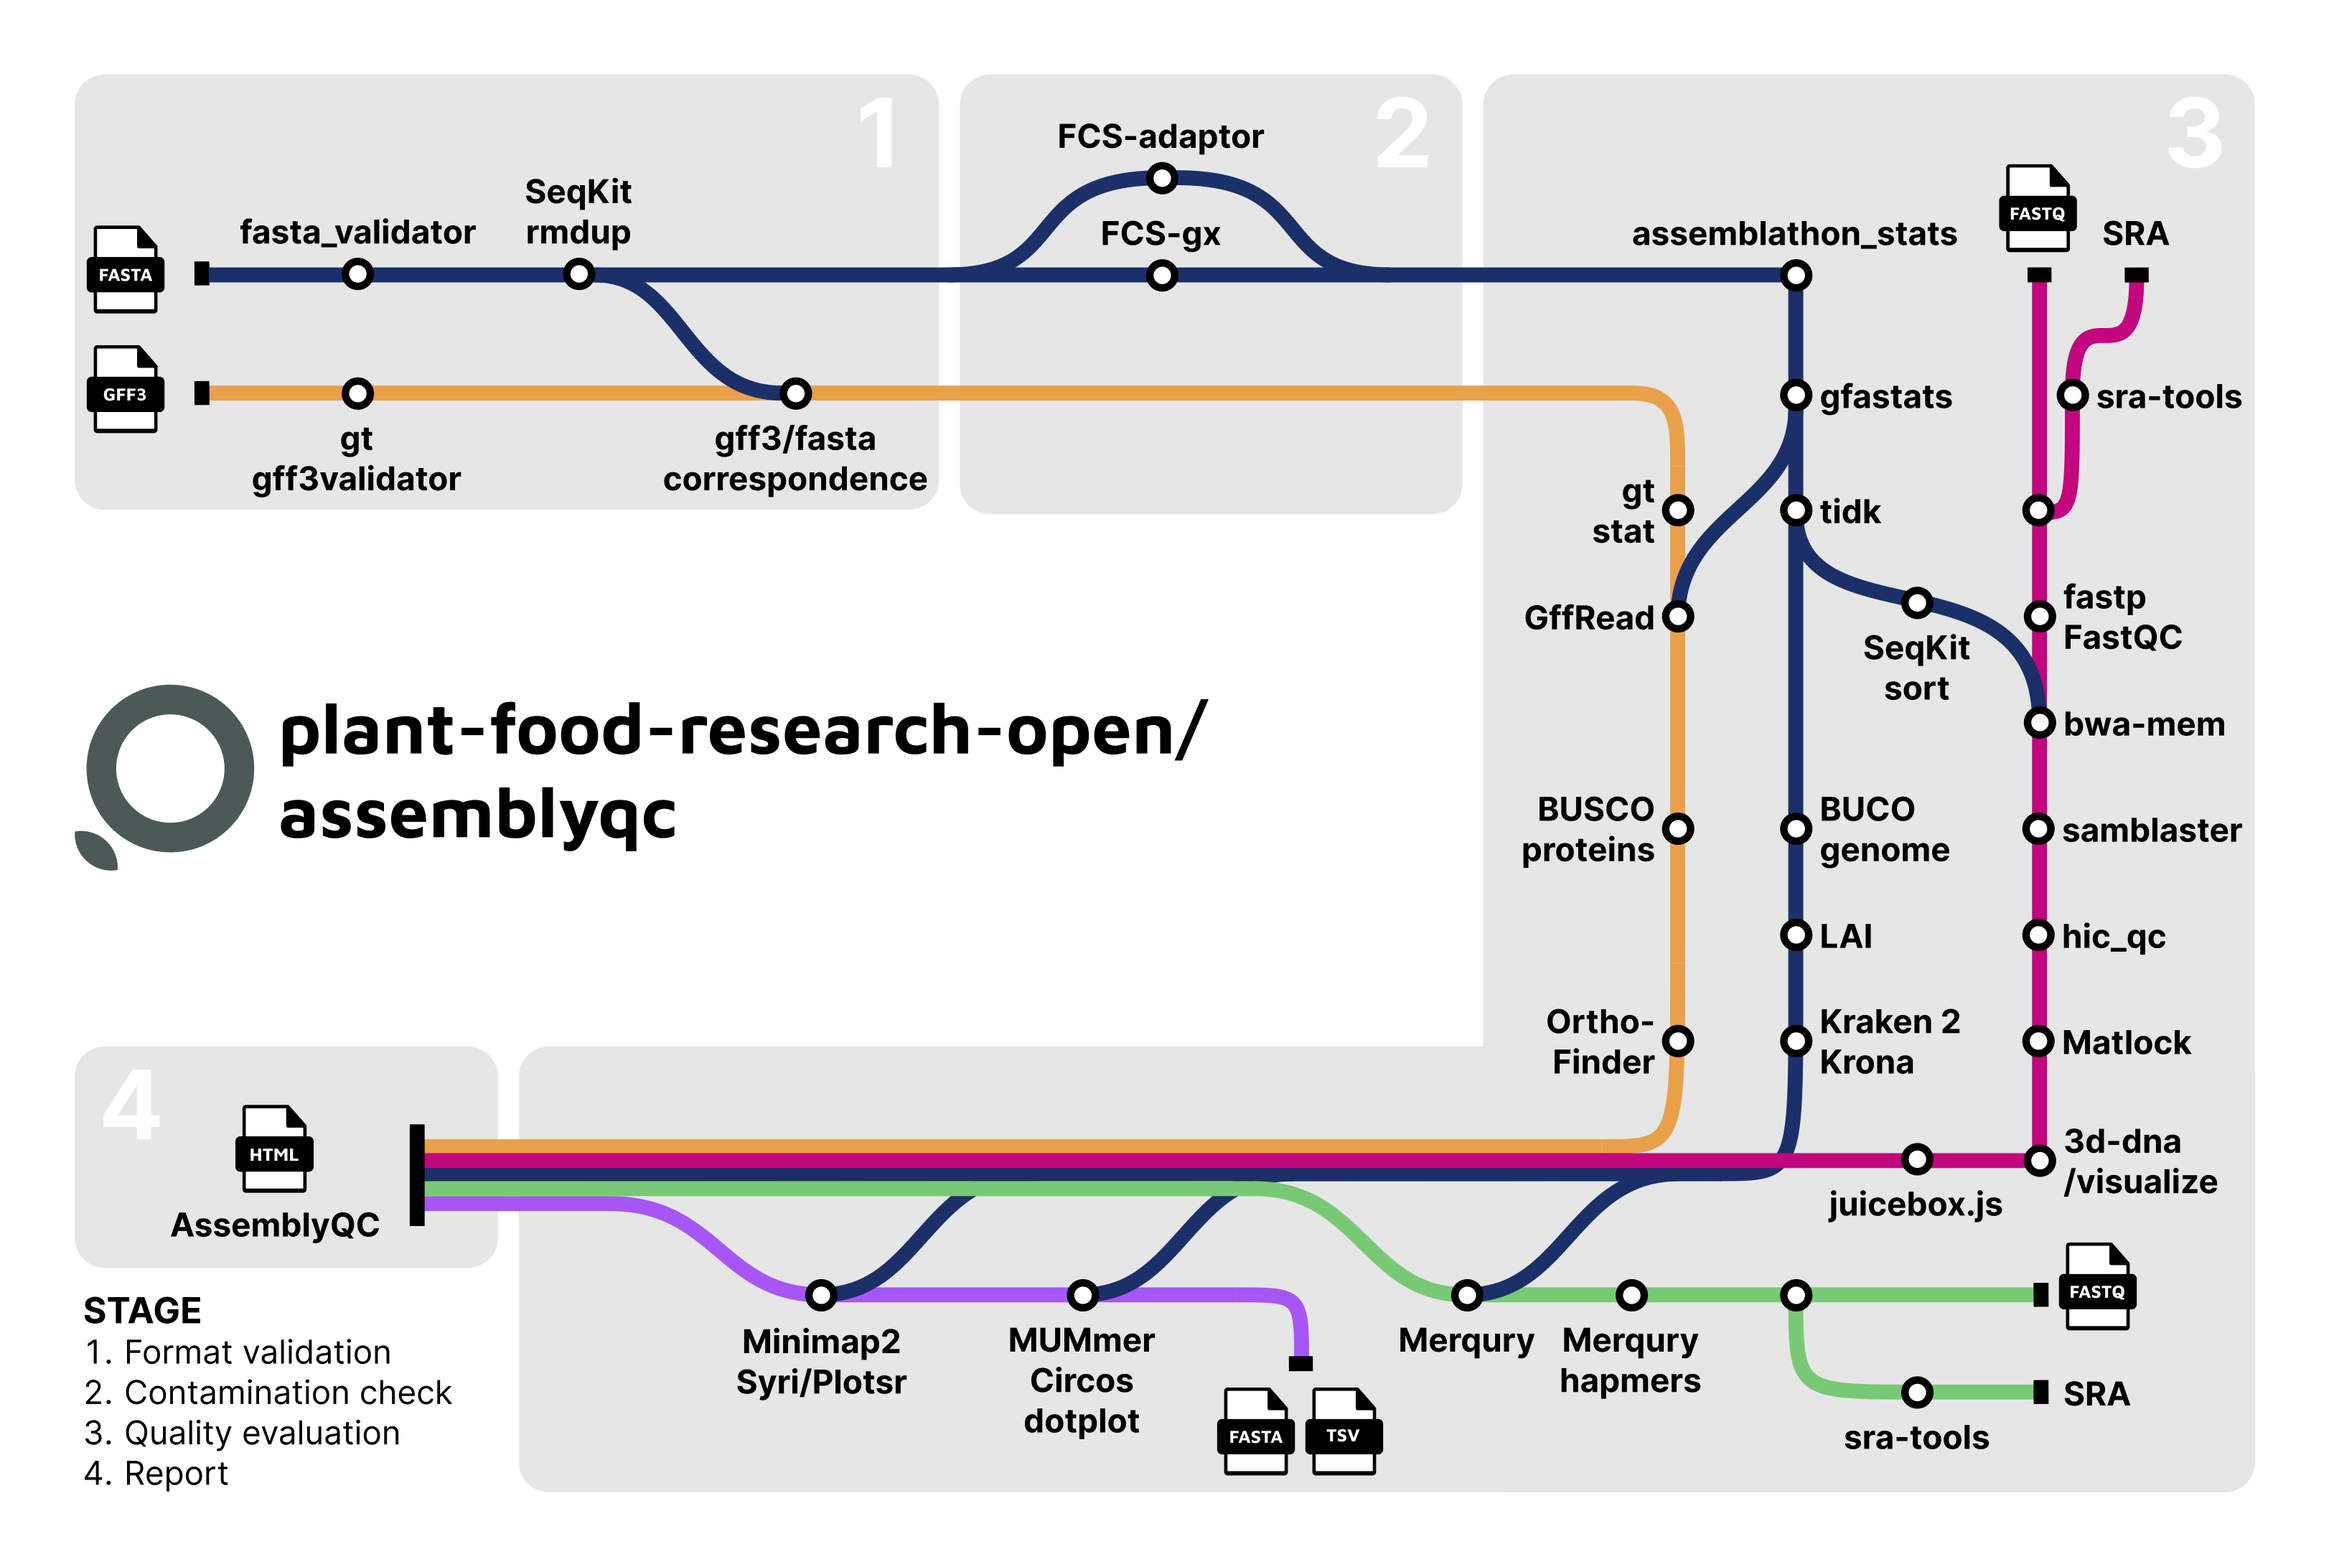
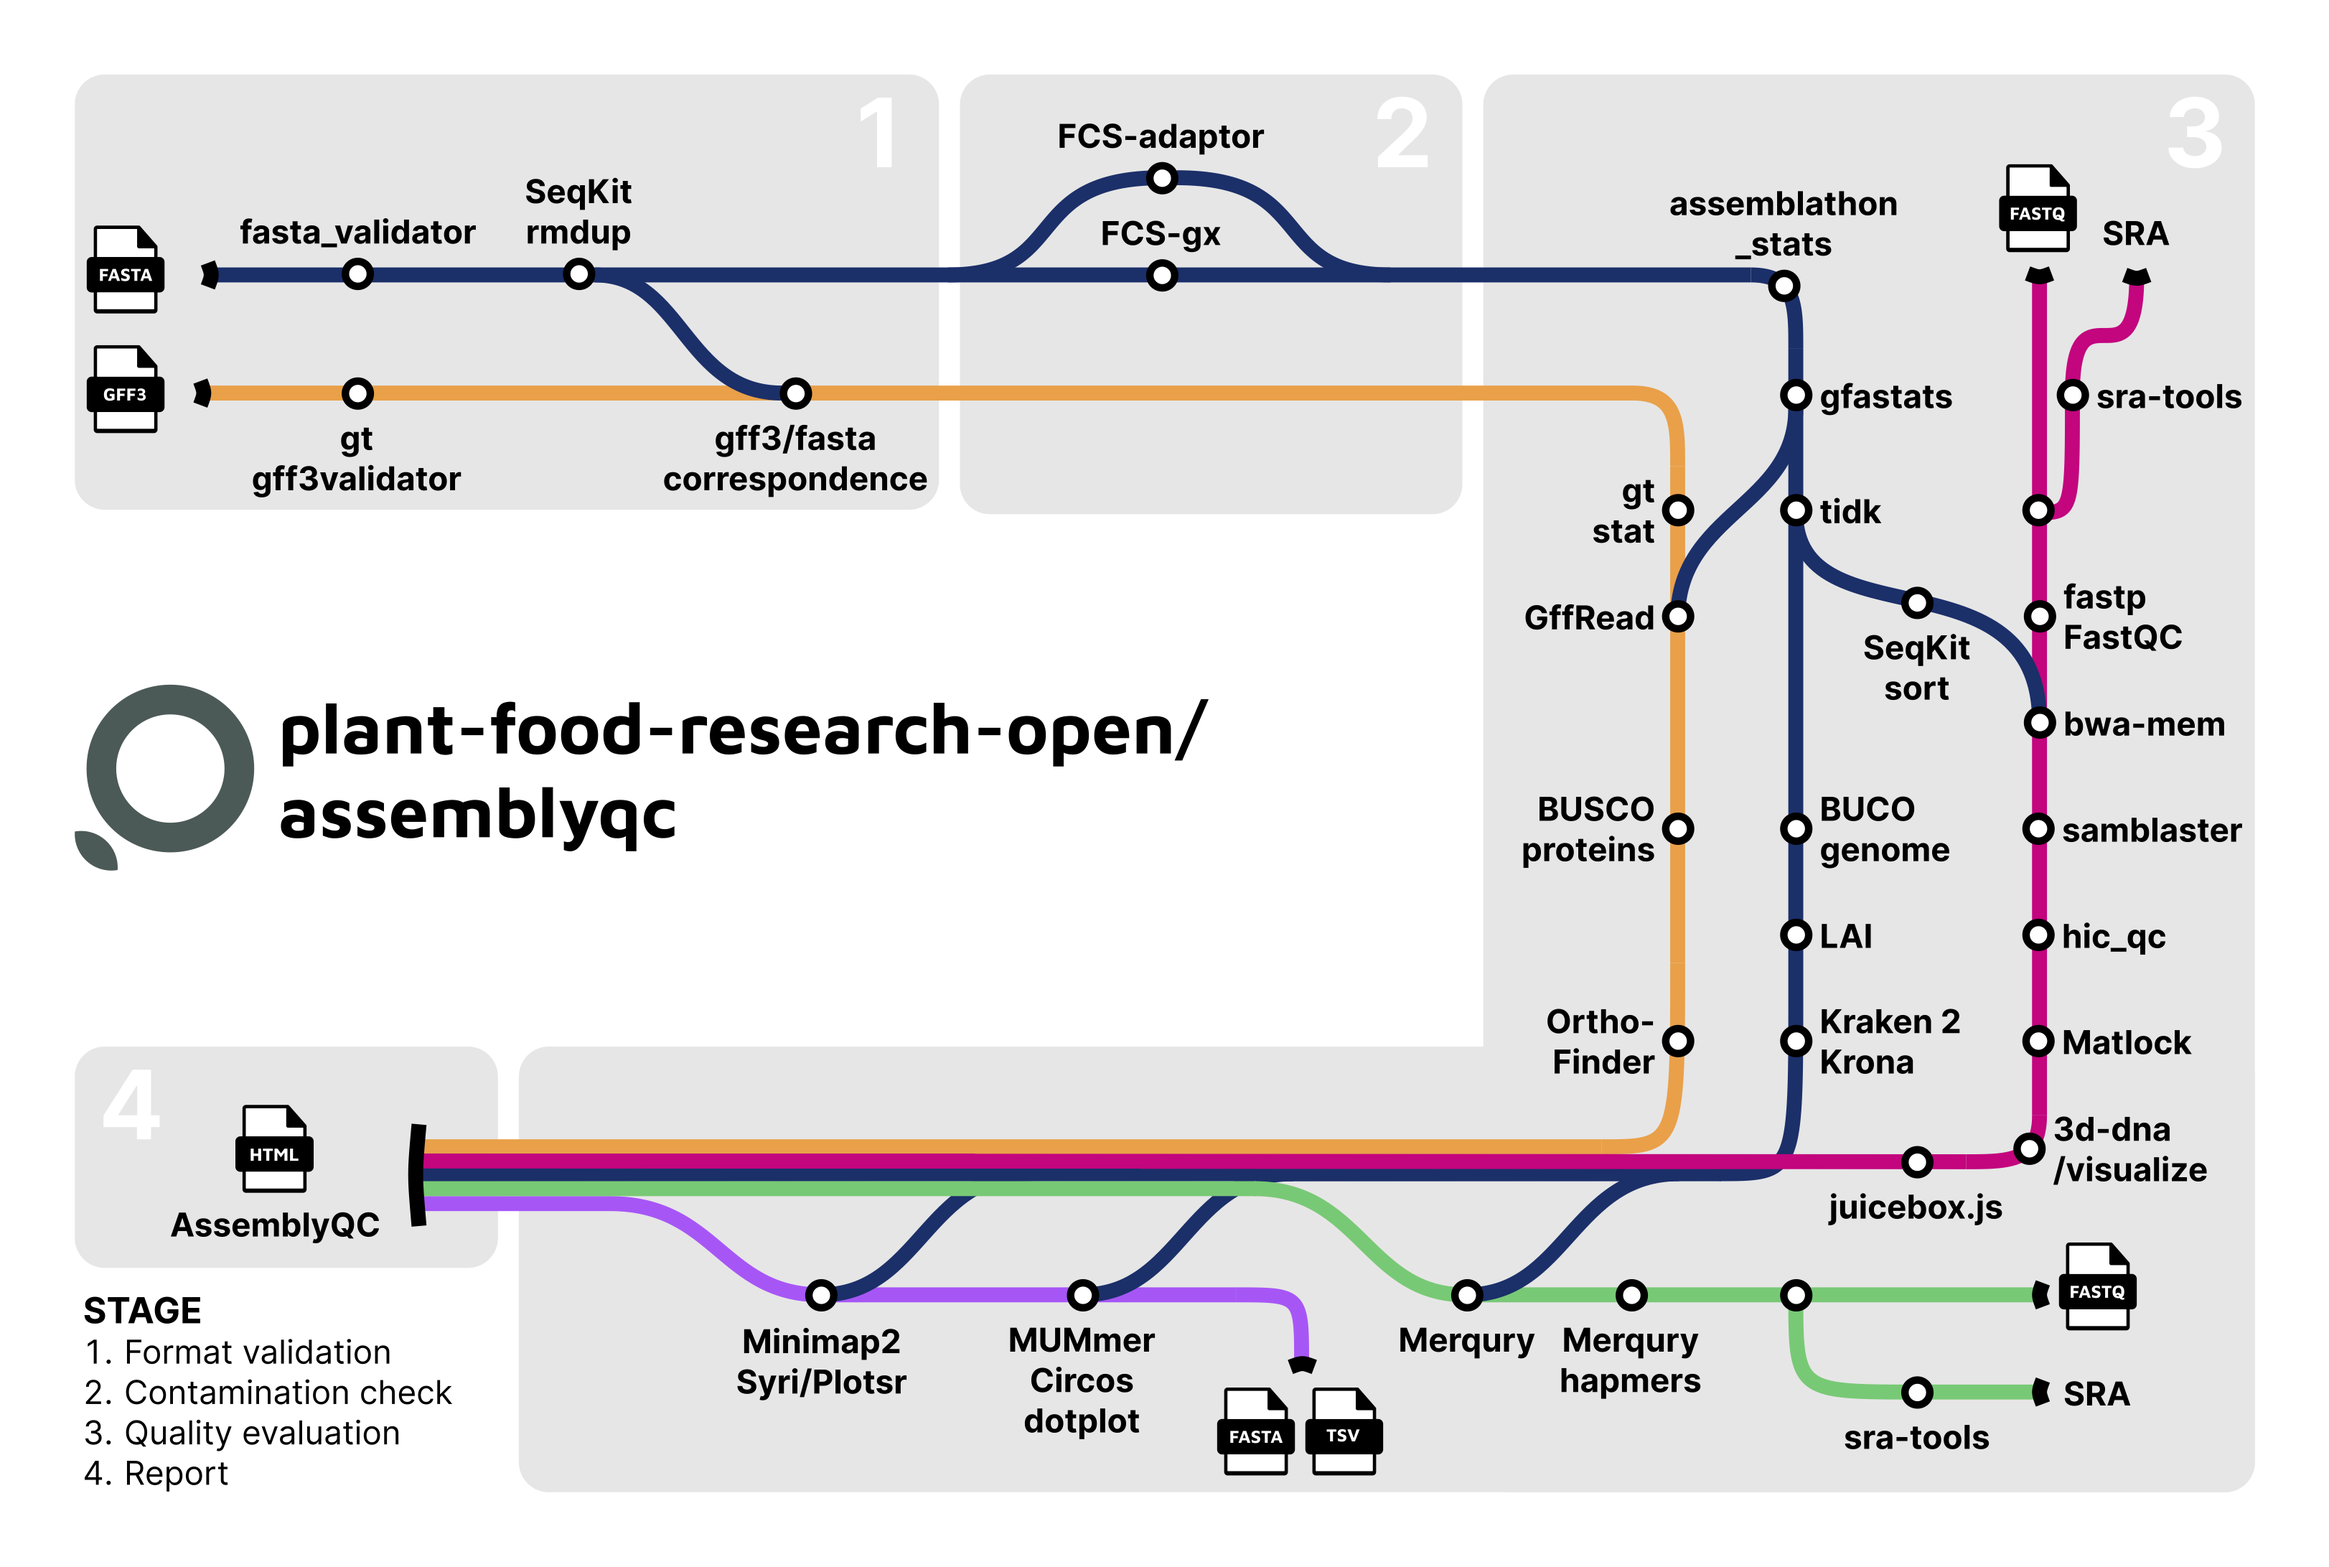
Fixed 183,184,179,178

Changed region(s): [[0.7781, 0.7164, 0.9649, 0.7787], [0.6847, 0.1246, 0.8404, 0.1869], [0.0622, 0.1557, 0.0934, 0.1869]]

diff --git a/bin/report_modules/templates/hic/hic.html b/bin/report_modules/templates/hic/hic.html
@@ -8,24 +8,27 @@
     <p class="section-para"><b>References:</b></p>
 
     <p class="section-para">
-      <b>fastp</b> Chen, Yanqing Zhou, Yaru Chen, Jia Gu, fastp: an ultra-fast all-in-one FASTQ preprocessor, Bioinformatics,
+      <b>fastp</b> Chen, Yanqing Zhou, Yaru Chen, Jia Gu, fastp: an ultra-fast all-in-one FASTQ preprocessor,
+      Bioinformatics,
       Volume 34, Issue 17, September 2018, Pages i884–i890, <a href="https://doi.org/10.1093/bioinformatics/bty560"
         target="_blank">10.1093/bioinformatics/bty560</a>
     </p>
 
     <p class="section-para">
-      <b>BWA</b> Li, H. (2013). Aligning sequence reads, clone sequences and assembly contigs with BWA-MEM. arXiv preprint <a
-        href="https://arxiv.org/abs/1303.3997" target="_blank">arXiv: 1303.3997</a>.
+      <b>BWA</b> Li, H. (2013). Aligning sequence reads, clone sequences and assembly contigs with BWA-MEM. arXiv
+      preprint <a href="https://arxiv.org/abs/1303.3997" target="_blank">arXiv: 1303.3997</a>.
     </p>
 
     <p class="section-para">
-      <b>SAMBLASTER</b> Gregory G. Faust, Ira M. Hall, SAMBLASTER: fast duplicate marking and structural variant read extraction,
+      <b>SAMBLASTER</b> Gregory G. Faust, Ira M. Hall, SAMBLASTER: fast duplicate marking and structural variant read
+      extraction,
       Bioinformatics, Volume 30, Issue 17, September 2014, Pages 2503–2505, <a
         href="https://doi.org/10.1093/bioinformatics/btu314" target="_blank">10.1093/bioinformatics/btu314</a>
     </p>
 
     <p class="section-para">
-      <b>SAMtools</b> Petr Danecek, James K Bonfield, Jennifer Liddle, John Marshall, Valeriu Ohan, Martin O Pollard, Andrew Whitwham,
+      <b>SAMtools</b> Petr Danecek, James K Bonfield, Jennifer Liddle, John Marshall, Valeriu Ohan, Martin O Pollard,
+      Andrew Whitwham,
       Thomas Keane, Shane A McCarthy, Robert M Davies, Heng Li, Twelve years of SAMtools and BCFtools, GigaScience,
       Volume
       10, Issue 2, February 2021, giab008, <a href="https://doi.org/10.1093/gigascience/giab008"
@@ -33,13 +36,29 @@
     </p>
 
     <p class="section-para">
-      <b>Juicebox.js</b> Robinson JT, Turner D, Durand NC, Thorvaldsdóttir H, Mesirov JP, Aiden EL. Juicebox.js Provides a
+      <b>Juicebox.js</b> Robinson JT, Turner D, Durand NC, Thorvaldsdóttir H, Mesirov JP, Aiden EL. Juicebox.js Provides
+      a
       Cloud-Based Visualization System for Hi-C Data. Cell Syst. 2018 Feb 28;6(2):256-258.e1.
       <a href="https://doi.org/10.1016/j.cels.2018.01.001" target="_blank">10.1016/j.cels.2018.01.001</a>. Epub
       2018 Feb 7. PMID: 29428417; PMCID: PMC6047755.
     </p>
 
     <p class="section-para"><b>Version: {{ all_stats_dicts['VERSIONS']['JUICEBOX_JS'] }}</b></p>
+
+    <p class="section-para"><b>Notes:</b></p>
+    <ul>
+      <li>
+        The Hi-C contact map is only loaded when the report is opened through a HTTP(s) server and all the necessary
+        permissions are in place. The contact map '.hic' file is stored in the 'hic' folder under the output directory.
+        It can be visualized with <a href="https://github.com/aidenlab/Juicebox/wiki/Download">Juicebox</a>.
+      </li>
+      <li>
+        This report dynamically loads content from the 'hic' folder under the output directory including '*.hic',
+        '*.html', 'bedpe/' and 'hicqc/'. These files and folders should also be moved when moving the report's HTML
+        file.
+      </li>
+    </ul>
+
   </div>
   {% include 'hic/dropdown.html' %} {% include 'hic/report_contents.html' %}
 </div>

diff --git a/bin/report_modules/templates/ncbi_fcs_gx/ncbi_fcs_gx.html b/bin/report_modules/templates/ncbi_fcs_gx/ncbi_fcs_gx.html
@@ -1,23 +1,32 @@
 <div id="NCBI_FCS_GX" class="tabcontent" style="display: none">
-    <div class="section-para-wrapper">
-        <p class="section-para">FCS-GX detects contamination from foreign organisms in genome sequences.</p>
-        <p class="section-para"><b>Reference:</b></p>
-        <p class="section-para">
-            Alexander Astashyn, Eric S Tvedte, Deacon Sweeney, Victor Sapojnikov, Nathan Bouk, Victor Joukov, Eyal
-            Mozes, Pooja K Strope, Pape M Sylla, Lukas Wagner, Shelby L Bidwell, Karen Clark, Emily W Davis, Brian
-            Smith-White, Wratko Hlavina, Kim D Pruitt, Valerie A Schneider, Terence D Murphy bioRxiv 2023.06.02.543519;
-            doi:
-            <a href="https://doi.org/10.1101/2023.06.02.543519" target="_blank">10.1101/2023.06.02.543519</a>, GitHub:
-            <a href="https://github.com/ncbi/fcs" target="_blank">https://github.com/ncbi/fcs</a>
-        </p>
-        <p class="section-para">
-            <b>Version: {{ all_stats_dicts['VERSIONS']['NCBI_FCS_GX_SCREEN_SAMPLES']['fcs_gx'] }}</b>
-        </p>
-        <p class="section-para">
-            <b>DB Version: {{ all_stats_dicts['NCBI_FCS_GX'][0]['report_meta_data'][1]['db']['build-date'] }}</b>
-        </p>
-    </div>
-    {% include 'ncbi_fcs_gx/dropdown.html' %}
-    {% include 'ncbi_fcs_gx/summary_contents.html' %}
-    {% include 'ncbi_fcs_gx/report_contents.html' %}
+  <div class="section-para-wrapper">
+    <p class="section-para">FCS-GX detects contamination from foreign organisms in genome sequences.</p>
+    <p class="section-para"><b>Reference:</b></p>
+    <p class="section-para">
+      Alexander Astashyn, Eric S Tvedte, Deacon Sweeney, Victor Sapojnikov, Nathan Bouk, Victor Joukov, Eyal
+      Mozes, Pooja K Strope, Pape M Sylla, Lukas Wagner, Shelby L Bidwell, Karen Clark, Emily W Davis, Brian
+      Smith-White, Wratko Hlavina, Kim D Pruitt, Valerie A Schneider, Terence D Murphy bioRxiv 2023.06.02.543519;
+      doi:
+      <a href="https://doi.org/10.1101/2023.06.02.543519" target="_blank">10.1101/2023.06.02.543519</a>, GitHub:
+      <a href="https://github.com/ncbi/fcs" target="_blank">https://github.com/ncbi/fcs</a>
+    </p>
+    <p class="section-para">
+      <b>Version: {{ all_stats_dicts['VERSIONS']['NCBI_FCS_GX_SCREEN_SAMPLES']['fcs_gx'] }}</b>
+    </p>
+    <p class="section-para">
+      <b>DB Version: {{ all_stats_dicts['NCBI_FCS_GX'][0]['report_meta_data'][1]['db']['build-date'] }}</b>
+    </p>
+
+    <p class="section-para"><b>Note:</b></p>
+    <ul>
+      <li>
+        This report dynamically loads '*.fcs.gx.krona.html' files from the 'ncbi_fcs_gx' folder under the output
+        directory. These files should also be moved when moving the report's HTML file.
+      </li>
+    </ul>
+
+  </div>
+  {% include 'ncbi_fcs_gx/dropdown.html' %}
+  {% include 'ncbi_fcs_gx/summary_contents.html' %}
+  {% include 'ncbi_fcs_gx/report_contents.html' %}
 </div>

diff --git a/bin/report_modules/templates/kraken2/kraken2.html b/bin/report_modules/templates/kraken2/kraken2.html
@@ -1,14 +1,23 @@
 <div id="KRAKEN2" class="tabcontent" style="display: none">
-    <div class="section-para-wrapper">
-        <p class="section-para">
-            Kraken2 assigns taxonomic labels to sequencing reads for metagenomics projects.
-        </p>
-        <p class="section-para"><b>Reference:</b></p>
-        <p class="section-para">
-            Wood, D.E., Lu, J. & Langmead, B. Improved metagenomic analysis with Kraken 2. Genome Biol 20, 257 (2019).
-            <a href="https://doi.org/10.1186/s13059-019-1891-0" target="_blank">10.1186/s13059-019-1891-0</a>
-        </p>
-        <p class="section-para"><b>Version: {{ all_stats_dicts['VERSIONS']['KRAKEN2']['kraken2'] }}</b></p>
-    </div>
-    {% include 'kraken2/dropdown.html' %} {% include 'kraken2/report_contents.html' %}
+  <div class="section-para-wrapper">
+    <p class="section-para">
+      Kraken2 assigns taxonomic labels to sequencing reads for metagenomics projects.
+    </p>
+    <p class="section-para"><b>Reference:</b></p>
+    <p class="section-para">
+      Wood, D.E., Lu, J. & Langmead, B. Improved metagenomic analysis with Kraken 2. Genome Biol 20, 257 (2019).
+      <a href="https://doi.org/10.1186/s13059-019-1891-0" target="_blank">10.1186/s13059-019-1891-0</a>
+    </p>
+    <p class="section-para"><b>Version: {{ all_stats_dicts['VERSIONS']['KRAKEN2']['kraken2'] }}</b></p>
+
+    <p class="section-para"><b>Note:</b></p>
+    <ul>
+      <li>
+        This report dynamically loads '*.kraken2.krona.html' files from the 'kraken2' folder under the output directory.
+        These files should also be moved when moving the report's HTML file.
+      </li>
+    </ul>
+
+  </div>
+  {% include 'kraken2/dropdown.html' %} {% include 'kraken2/report_contents.html' %}
 </div>

diff --git a/bin/report_modules/templates/synteny_plotsr/synteny_plotsr.html b/bin/report_modules/templates/synteny_plotsr/synteny_plotsr.html
@@ -31,6 +31,15 @@
         all_stats_dicts['VERSIONS']['SYRI']['syri'] }} (SYRI), {{
         all_stats_dicts['VERSIONS']['MINIMAP2_ALIGN']['minimap2'] }} (MINIMAP2)</b>
     </p>
+
+    <p class="section-para"><b>Note:</b></p>
+    <ul>
+      <li>
+        This report dynamically loads '*.on.*.all/' folders from the 'synteny' folder under the output
+        directory. These folders should also be moved when moving the report's HTML file.
+      </li>
+    </ul>
+
   </div>
   {% include 'synteny_plotsr/report_contents.html' %}
 </div>

diff --git a/CHANGELOG.md b/CHANGELOG.md
@@ -3,6 +3,25 @@
 The format is based on [Keep a Changelog](https://keepachangelog.com/en/1.0.0/)
 and this project adheres to [Semantic Versioning](https://semver.org/spec/v2.0.0.html).
 
+## v2.2.1 - [11-Dec-2024]
+
+### `Added`
+
+1. Added notes on HTTP(s) server on the HiC page and on the need to move dynamically loaded content when moving the report's HTML file [#183](https://github.com/Plant-Food-Research-Open/assemblyqc/issues/183)
+
+### `Fixed`
+
+1. Fixed an issue where PLOTSR crashed due to a mismatch in the ordering of `syri.out` files when `synteny_plotsr_assembly_order` was not specified [#184](https://github.com/Plant-Food-Research-Open/assemblyqc/issues/184)
+2. Fixed an issue where a path to HiC FastQ file pairs from the current directory were considered a SRR ID [#179](https://github.com/Plant-Food-Research-Open/assemblyqc/issues/179)
+3. Fixed edges and input/output arrows in the flowchart [#178](https://github.com/Plant-Food-Research-Open/assemblyqc/issues/178)
+
+### `Dependencies`
+
+1. Nextflow!>=24.04.2
+2. nf-schema@2.1.1
+
+### `Deprecated`
+
 ## v2.2.0 - [05-Nov-2024]
 
 ### `Added`
